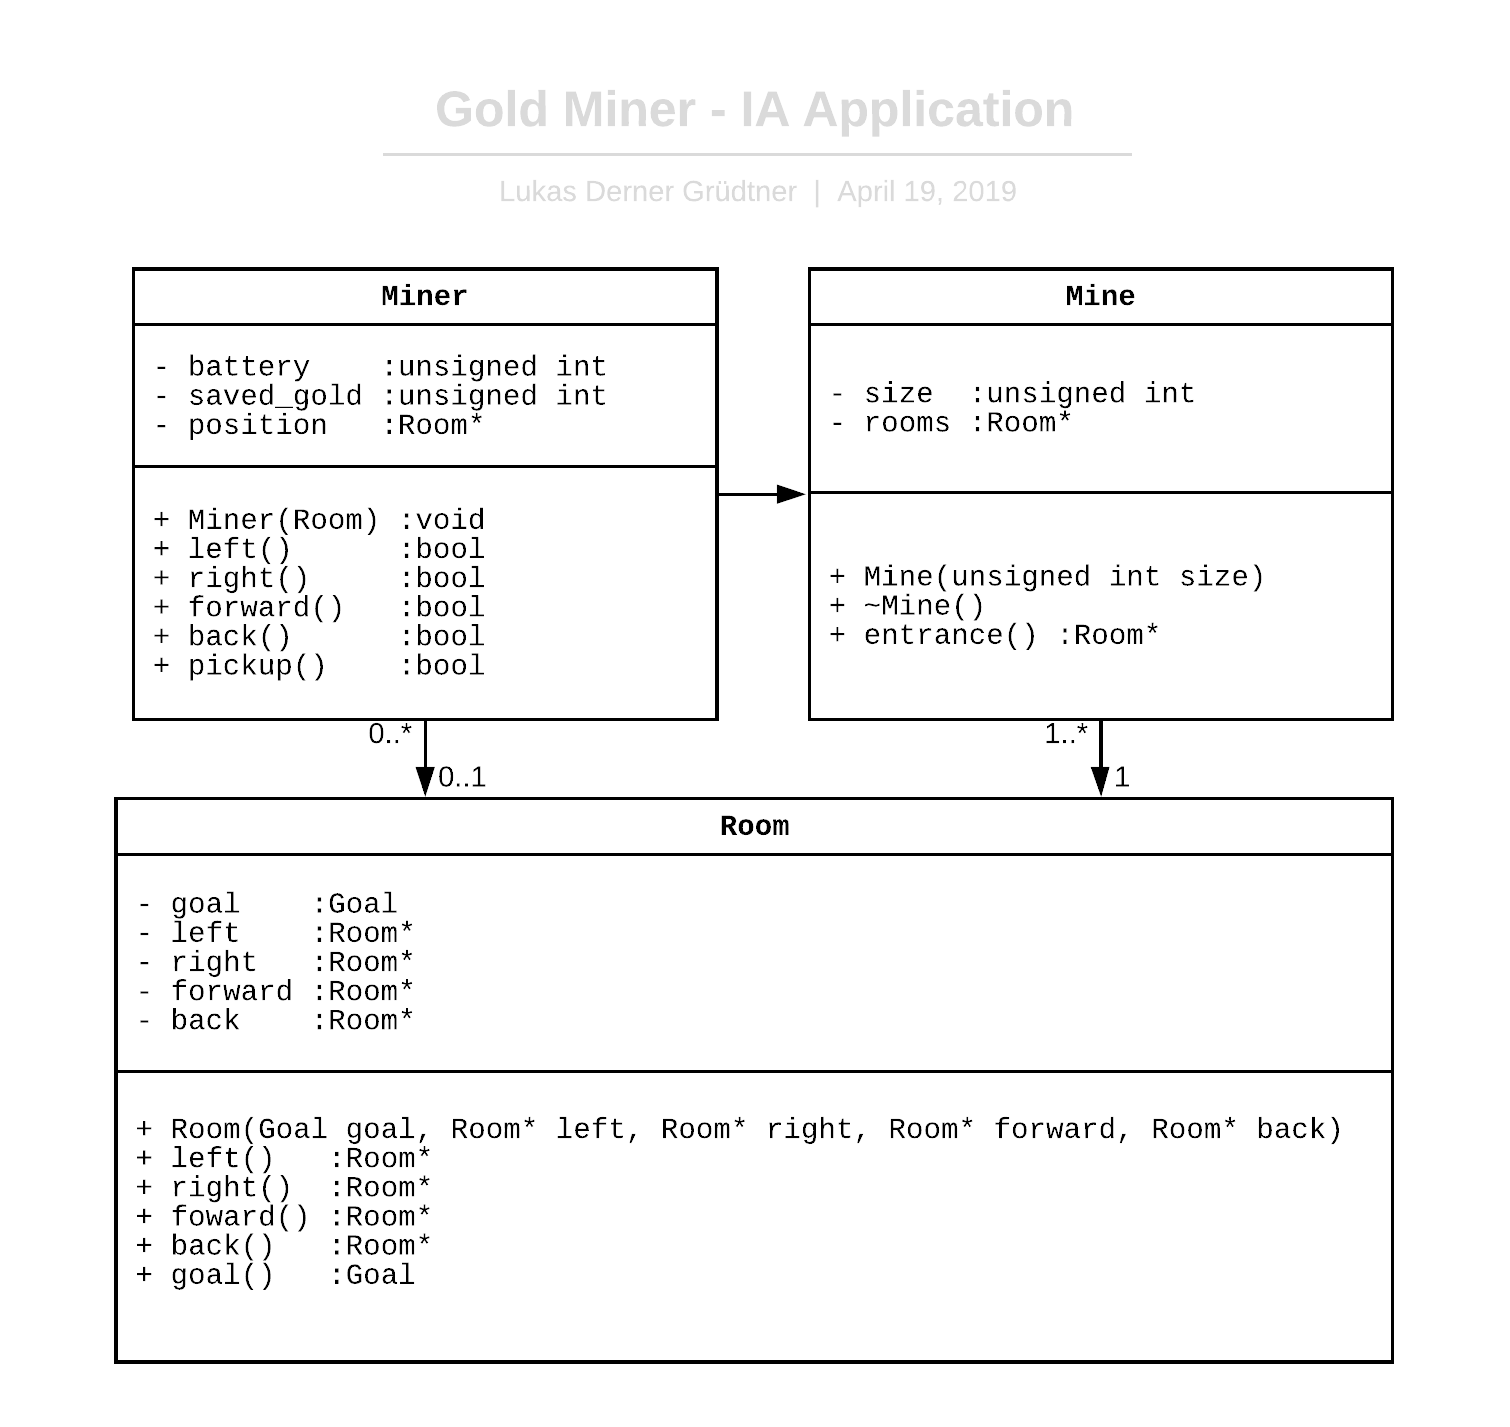
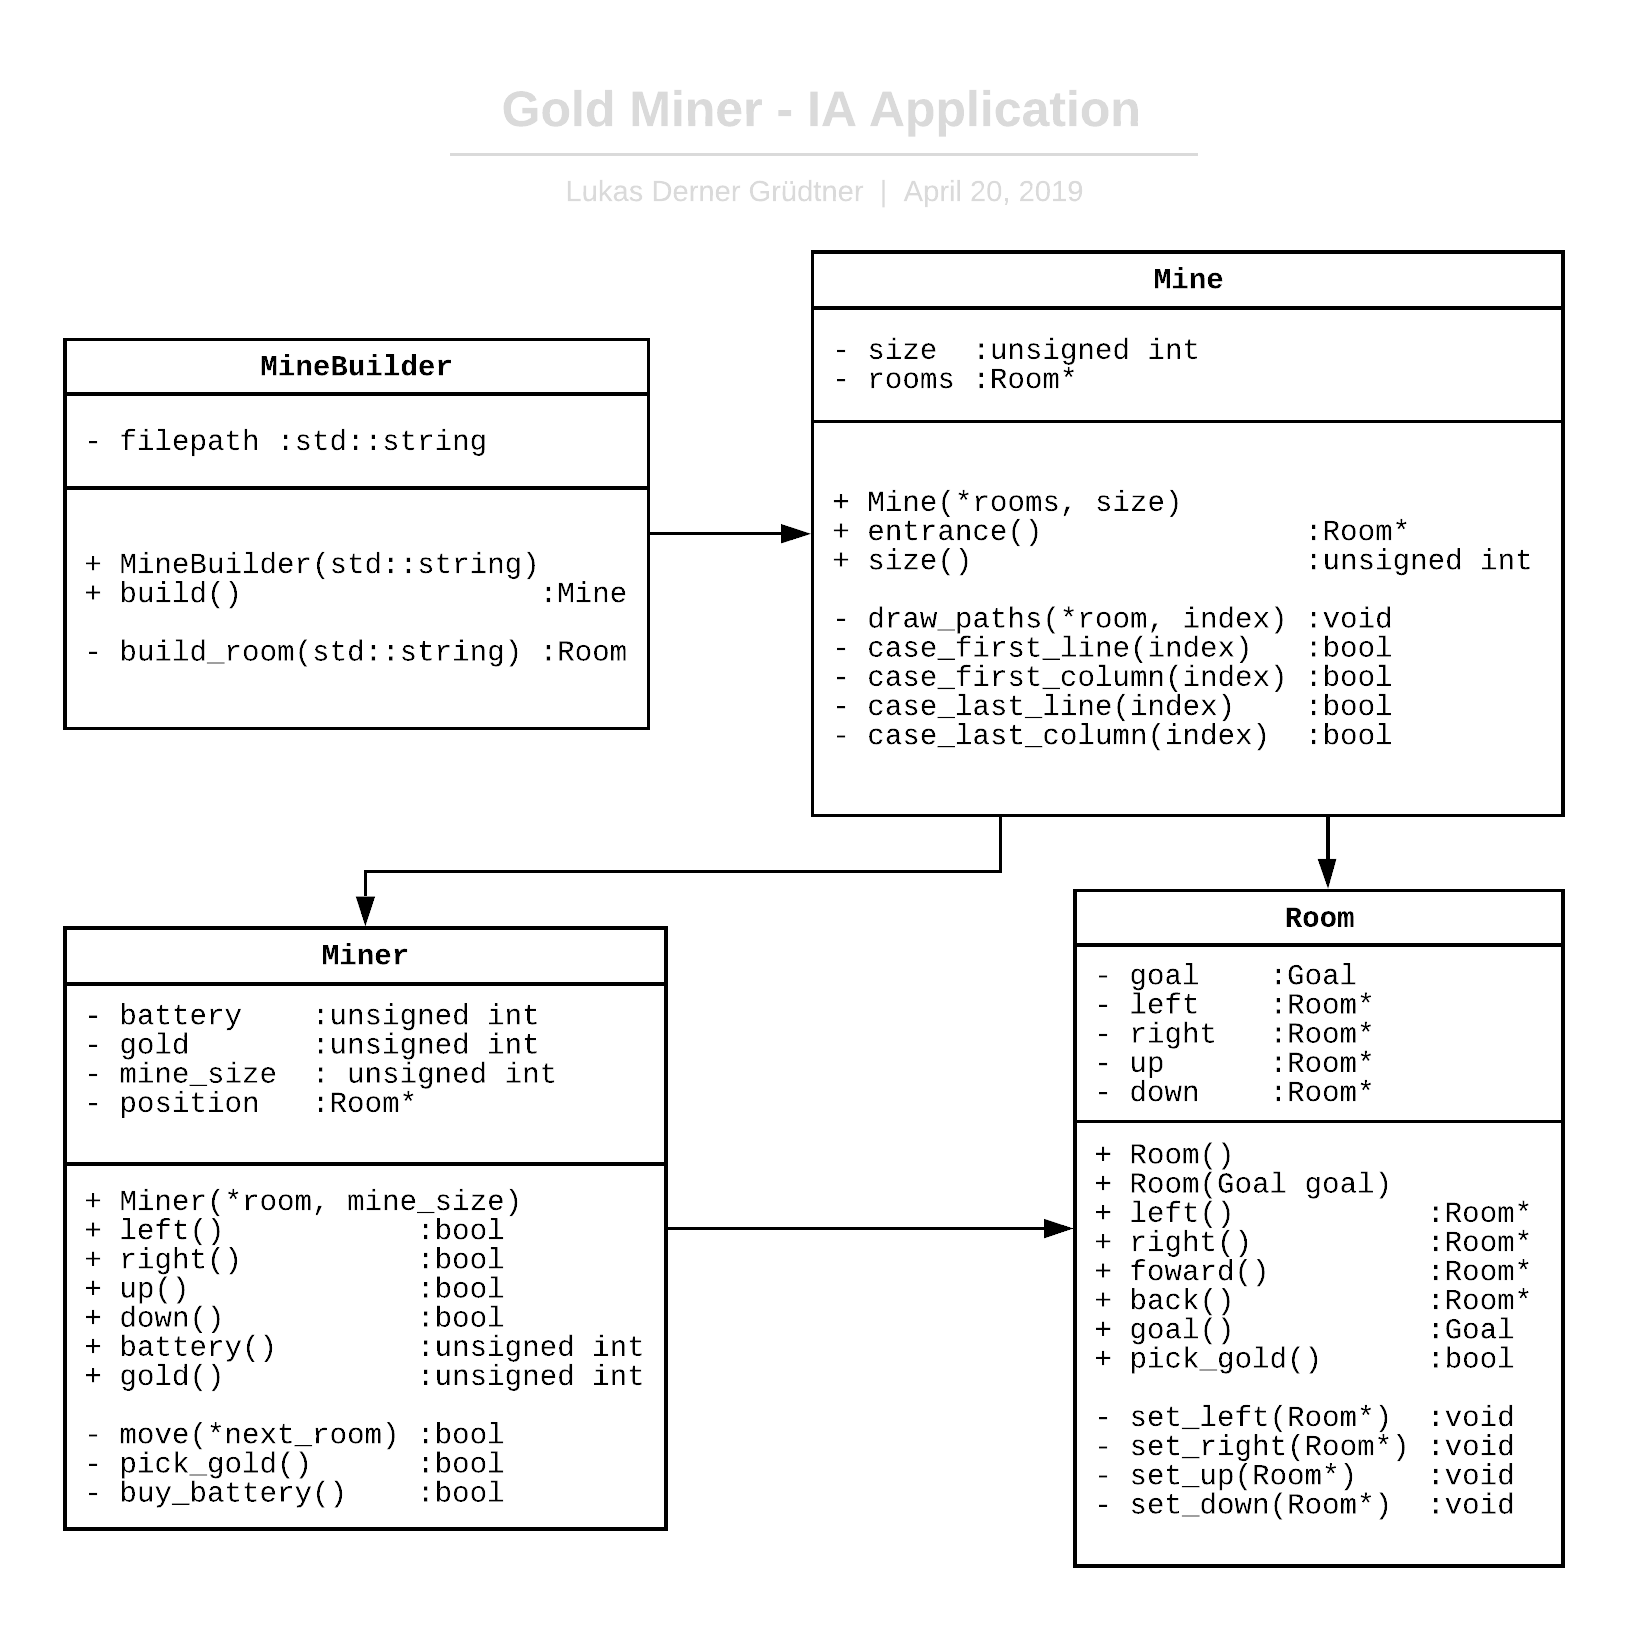
Update UML chart.

diff --git a/src/mine.cpp b/src/mine.cpp
@@ -22,42 +22,42 @@ unsigned int Mine::size() const
 
 void Mine::draw_paths(Room* room, unsigned int index)
 {
-    if (!case1(index))
+    if (!case_first_line(index))
         room->set_up(&(this->_rooms[index-_size]));
-    if (!case2(index))
+    if (!case_first_column(index))
         room->set_left(&(this->_rooms[index-1]));
-    if (!case3(index))
+    if (!case_last_line(index))
         room->set_down(&(this->_rooms[index+_size]));
-    if (!case4(index))
+    if (!case_last_column(index))
         room->set_right(&(this->_rooms[index+1]));
 }
 
-/* Treats rooms that have no backward paths (first line, bottom to top) */
-bool Mine::case1(unsigned int index)
+/* Rooms that have no way up. */
+bool Mine::case_first_line(unsigned int index)
 {
     if (index < this->_size)
         return true;
     return false;
 }
 
-/*  Treats rooms that have no paths to the left (first column, left to right) */
-bool Mine::case2(unsigned int index)
+/*  Rooms that have no paths to the left. */
+bool Mine::case_first_column(unsigned int index)
 {
     if (index % this->_size == 0)
         return true;
     return false;
 }
 
-/*  Treats rooms that have no paths to the right (last column, left to right) */
-bool Mine::case3(unsigned int index)
+/*  Rooms that have no way down */
+bool Mine::case_last_line(unsigned int index)
 {
     if (index > (_size*_size - _size-1))
         return true;
     return false;
 }
 
-/* Treats rooms that have no paths up (last line, bottom to up) */
-bool Mine::case4(unsigned int index)
+/* Rooms that have no path to the right. */
+bool Mine::case_last_column(unsigned int index)
 {
     if (index % _size == _size-1)
         return true;

diff --git a/include/mine.h b/include/mine.h
@@ -1,7 +1,6 @@
 #ifndef __MINE_H__
 #define __MINE_H__
 
-#include <vector>
 #include "room.h"
 
 /**
@@ -27,21 +26,18 @@ public:
     unsigned int size() const;
 
 private:
-    void add_room(const Room& room);
-
     void draw_paths(Room* room, unsigned int index);
 
-    bool case1(unsigned int index);
-    bool case2(unsigned int index);
-    bool case3(unsigned int index);
-    bool case4(unsigned int index);
+    bool case_first_line    (unsigned int index);
+    bool case_first_column  (unsigned int index);
+    bool case_last_line     (unsigned int index);
+    bool case_last_column   (unsigned int index);
 
 private:
     /* Size of the mine. */
     unsigned int _size;
 
     /* Array with all the rooms of the mine. */
-    // std::vector<Room> _rooms;
     Room* _rooms;
 };
 

diff --git a/include/room.h b/include/room.h
@@ -18,13 +18,13 @@ public:
     Room(Goal goal);
 
     /* Possible paths and its rooms. */
-    Room* left()      const;
-    Room* right()     const;
-    Room* up()        const;
-    Room* down()      const;
+    Room* left()    const;
+    Room* right()   const;
+    Room* up()      const;
+    Room* down()    const;
+    Goal goal()     const;
     bool pick_gold();
 
-    Goal goal() const;
 
 public:
     friend class Mine;
